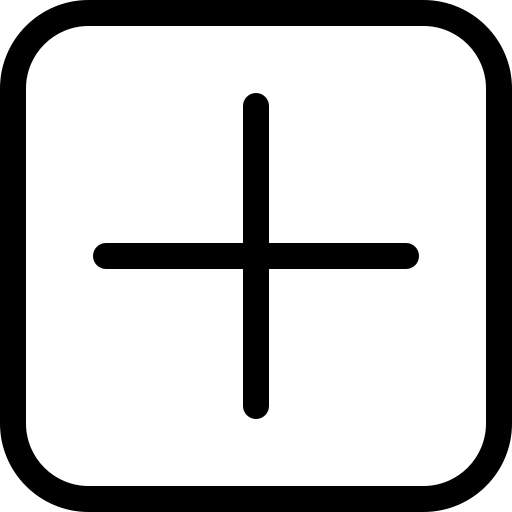
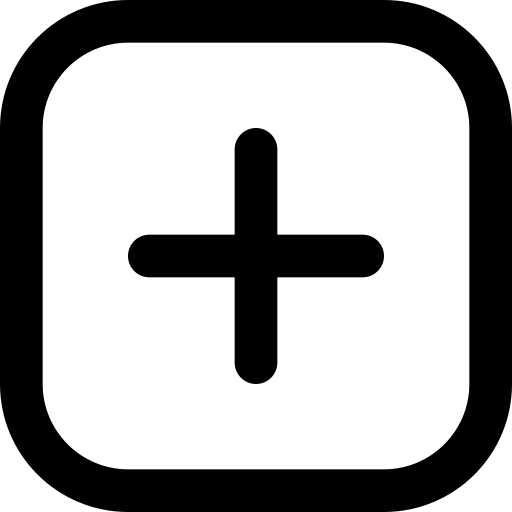
style changes, added edit & admin page, more

Changed region(s): [[0.0, 0.0, 1.0, 1.0], [0.1875, 0.1875, 0.8125, 0.8125]]

diff --git a/templates/admin.html b/templates/admin.html
@@ -5,36 +5,14 @@
 {% endblock %}
 
 {% block body %}
-<h2>Home</h2>
+<h2>Admin</h2>
 <div class="main-container">
-    <div class="upper-container">
-        <a href="{{ url_for('logout')}}">
-            <img src="/static/images/logout-icon.png" alt="Logout" class="action-button">
-        </a>
-        <div class="twoot-profile" style="display: flex; align-items: center; gap: 10px;">
-            {% if user == "Fuma" %}
-            <img class="twoot-pfp" src="/static/images/fuma-pfp.jpeg">
-            {% elif user == "Vyn" %}
-            <img class="twoot-pfp" src="/static/images/vyn-pfp.jpg">
-            {% elif user == "Mafu" %}
-            <img class="twoot-pfp" src="/static/images/mafu-pfp.jpg">
-            {% else %}
-            <img class="twoot-pfp" src="/static/images/default-pfp.jpg">
-            {% endif %}
-            <h4 class="twoot-user">{{user}}</h4>
-        </div>
-        {% if user == "fumafuamuf2101" %}
-        <a href="{{url_for('admin')}}">
-            <img src="/static/images/admin-icon.png" alt="Admin" class="action-button">
-        </a>
-        {% else %}
-        <a href="{{url_for('twoot')}}">
-            <img src="/static/images/post-icon.png" alt="Post" class="action-button">
-        </a>
-        {% endif %}
+    <div style="display: flex; justify-content: center;">
+        <img class="twoot-pfp" src="/static/images/pic-1.jpeg" style="width: auto; height: 180px;">
     </div>
+    <p style="text-align: center;">Edit and delete twoots</p>
     <div class="twoots-container">
-        {% if twoots|length < 1 %} <h2>No twoots ;w;</h2>
+        {% if twoots|length < 1 %} <h2>No twoots</h2>
             {% else %}
             {% for twoot in twoots %}
             <div class="twoot">
@@ -44,28 +22,22 @@
                         <img class="twoot-pfp" src="/static/images/fuma-pfp.jpeg">
                         {% elif twoot.user == "Vyn" %}
                         <img class="twoot-pfp" src="/static/images/vyn-pfp.jpg">
-                        {% elif twoot.user == "Mafu" %}
-                        <img class="twoot-pfp" src="/static/images/mafu-pfp.jpg">
                         {% else %}
                         <img class="twoot-pfp" src="/static/images/default-pfp.jpg">
                         {% endif %}
                         <h4 class="twoot-user">{{twoot.user}}</h4>
                     </div>
-                    {% if user == twoot.user %}
                     <div class="twoot-update" style="display: flex; align-items: center; gap: 10px;">
                         <a href="/edit/{{twoot.id}}" style="text-decoration: none; color: black;">Edit</a>
                         <a href="/delete/{{twoot.id}}" style="text-decoration: none; color: black;">Delete</a>
                     </div>
-                    {% else %}
-                    <p></p>
-                    {% endif %}
                 </div>
                 <p class="twoot-content">{{twoot.content}}</p>
                 <div class="twoot-foot">
                     {% if twoot.is_edited == True %}
-                    <p class="twoot-id">(edited)</p>
+                    <p class="twoot-id">Id: {{twoot.id}} (edited)</p>
                     {% else %}
-                    <p class="twoot-id"></p>
+                    <p class="twoot-id">Id: {{twoot.id}}</p>
                     {% endif %}
                     <p class="twoot-date-created">{{twoot.date_created.date()}}</p>
                 </div>

diff --git a/templates/login.html b/templates/login.html
@@ -5,13 +5,47 @@
 {% endblock %}
 
 {% block body %}
-<h2>Login (not an actual login)</h2>
-<p>Helo and welcome to twoo:3r !!! <br>
-    But first enter ur name plsss</p>
-<p>Suggestion: {{nm_suggestion}}</p>
-<form action="/login" method="POST">
-    <input type="text" name="username" placeholder="Enter name here" required>
-    <input type="submit" value="Enter now !!!">
-</form>
-<a href="https://youtu.be/dQw4w9WgXcQ?si=eTnQIvQ7HFBQSJL4" target="_blank"><button>I'm just gonna leave</button></a>
+<h2>Login</h2>
+<div class="main-container">
+    <div class="twoots-container">
+        <div class="twoot">
+            <div class="twoot-head">
+                <div class="twoot-profile" style="display: flex; align-items: center; gap: 10px;">
+                    <img class="twoot-pfp" src="/static/images/fuma-pfp.jpeg">
+                    <h4 class="twoot-user">Fuma</h4>
+                </div>
+                <a href="https://github.com/FumaGato" target="_blank">
+                    <img src="/static/images/github-logo.png" alt="My GitHub" class="github" style="margin-top: 12px;">
+                </a>
+            </div>
+            <p style="text-align: center;">Welcome to twoo:3r !!! <br>
+                Before continuing you need to login first. <br>
+                (Just type in your name bellow)</p>
+            <div class="twoot-foot">
+                <p></p>
+                <p></p>
+            </div>
+        </div>
+        <div class="twoot">
+            <div>
+                <p style="text-align: center;">v V V V v</p>
+            </div>
+            <form action="/login" method="POST">
+                <div style="display: flex; align-items: center; gap: 10px; justify-content: space-evenly;">
+                    <img src="/static/images/default-pfp.jpg" alt="pfp" style="width: 88.88px; height: 88.88px;">
+                    <div style="border: 3px solid black; border-radius: 10px; padding: 4px;">
+                        <input type="text" name="username" placeholder="Enter your name here" autocomplete="off"
+                            required style="font-size: 1.2rem; border-style: none;">
+                    </div>
+                    <input type="submit" value="Enter now !!" class="submit-button">
+                </div>
+            </form>
+            <div>
+                <p style="text-align: center;">Suggestion: {{nm_suggestion}}</p>
+            </div>
+        </div>
+    </div>
+</div>
+<a href="https://youtu.be/dQw4w9WgXcQ?si=eTnQIvQ7HFBQSJL4" target="_blank"><button class="submit-button">I'm just gonna
+        leave</button></a>
 {% endblock %}

diff --git a/templates/edit.html b/templates/edit.html
@@ -1,34 +1,35 @@
 {% extends 'base.html' %}
 
 {% block head %}
-<title>twoo:3r | Post</title>
+<title>twoo:3r | Edit</title>
 {% endblock %}
 
 {% block body %}
-<h2>Post</h2>
+<h2>Edit</h2>
 <div class="main-container">
     <div class="twoot">
         <div class="twoot-head">
             <div class="twoot-profile" style="display: flex; align-items: center; gap: 10px;">
-                {% if user == "Fuma" %}
+                {% if twoot.user == "Fuma" %}
                 <img class="twoot-pfp" src="/static/images/fuma-pfp.jpeg">
-                {% elif user == "Vyn" %}
+                {% elif twoot.user == "Vyn" %}
                 <img class="twoot-pfp" src="/static/images/vyn-pfp.jpg">
-                {% elif user == "Mafu" %}
+                {% elif twoot.user == "Mafu" %}
                 <img class="twoot-pfp" src="/static/images/mafu-pfp.jpg">
                 {% else %}
                 <img class="twoot-pfp" src="/static/images/default-pfp.jpg">
                 {% endif %}
-                <h4 class="twoot-user">{{user}}</h4>
+                <h4 class="twoot-user">{{twoot.user}}</h4>
             </div>
             <p></p>
         </div>
-        <form action="/twoot" method="POST">
-            <input type="text" name="content" maxlength="140" placeholder="Type something here" autocomplete="off"
-                required style="border-style: none; height: 60px; min-width: 585px;">
+        <form action="/edit/{{twoot.id}}" method="POST">
+            <input type="text" name="content" maxlength="140" placeholder="Type something here"
+                value="{{twoot.content}}" autocomplete="off" required
+                style="border-style: none; height: 60px; min-width: 585px;">
             <div class="twoot-foot">
                 <p></p>
-                <input type="submit" value="Post" class="submit-button">
+                <input type="submit" value="Done" class="submit-button">
             </div>
         </form>
     </div>

diff --git a/static/css/main.css b/static/css/main.css
@@ -47,7 +47,7 @@ body {
 }
 
 .main-container {
-    width: 40em;
+    width: 40rem;
 }
 
 .upper-container {
@@ -58,13 +58,13 @@ body {
     align-items: center;
 }
 
-.upper-container img {
-    width: 30px;
-    height: 30px;
+.action-button {
+    width: 35px;
+    height: 35px;
     transition: transform 0.2s ease;
 }
 
-.upper-container img:hover {
+.action-button:hover {
     transform: scale(1.1);
 }
 
@@ -75,7 +75,7 @@ body {
 
 .twoot {
     background-color: white;
-    border: 2px solid black;
+    border: 4px solid black;
     border-radius: 10px;
     padding-left: 20px;
     padding-right: 20px;
@@ -84,7 +84,15 @@ body {
 .twoot-head {
     display: flex;
     align-items: center;
-    gap: 10px;
+    justify-content: space-between;
+}
+
+.twoot-update a {
+    transition: transform 0.2s ease;
+}
+
+.twoot-update a:hover {
+    transform: scale(1.2);
 }
 
 .twoot-pfp {
@@ -96,4 +104,31 @@ body {
 .twoot-foot {
     display: flex;
     justify-content: space-between;
+}
+
+.submit-button {
+    font-family: "Atma", system-ui;
+    font-weight: 500;
+    font-size: 16px;
+    font-style: normal;
+    transition: transform 0.2s ease;
+    margin-bottom: 20px;
+    margin-top: 20px;
+    background-color: white;
+    border-style: none;
+    text-decoration: underline;
+}
+
+.submit-button:hover {
+    transform: scale(1.2);
+}
+
+.github {
+    width: 40px;
+    height: 40px;
+    transition: transform 0.2s ease;
+}
+
+.github:hover {
+    transform: scale(1.2);
 }

diff --git a/templates/base.html b/templates/base.html
@@ -20,7 +20,9 @@
     {% block body %}{% endblock %}
     <footer>
         <div>
-            <p>hehe</p>
+            <a href="/secret" style="color: black; text-decoration: none;">
+                <p>hehe</p>
+            </a>
         </div>
     </footer>
 </body>

diff --git a/templates/secret.html b/templates/secret.html
@@ -6,5 +6,5 @@
 
 {% block body %}
 <h1>Welcome to the secretroom</h1>
-<h3>mwehehehehe</h3>
+<p>There's nothing here lol... Yet...</p>
 {% endblock %}

diff --git a/app.py b/app.py
@@ -18,6 +18,7 @@ class Twoot(db.Model):
     id = db.Column(db.Integer, primary_key=True)
     user = db.Column(db.String(32), nullable=False)
     content = db.Column(db.String(140), nullable=False)
+    is_edited = db.Column(db.Boolean, default=False, nullable=False)
     date_created = db.Column(db.DateTime, default=datetime.utcnow)
 
 
@@ -46,12 +47,26 @@ def twoot():
         return render_template("twoot.html", user=session["user"])
 
 
-@app.route('/delete/<int:id>')
+@app.route("/edit/<int:id>", methods=["GET", "POST"])
+def edit(id):
+    twoot_to_edit = Twoot.query.get_or_404(id)
+    if request.method == "POST":
+        twoot_to_edit.content = request.form["content"]
+        twoot_to_edit.is_edited = True
+        db.session.commit()
+        return redirect(url_for("index"))
+    else:
+        return render_template("edit.html", twoot=twoot_to_edit)
+
+
+@app.route("/delete/<int:id>")
 def delete(id):
     twoot_to_del = Twoot.query.get_or_404(id)
     try:
         db.session.delete(twoot_to_del)
         db.session.commit()
+        if session["user"] == "fumafuamuf2101":
+            return redirect(url_for("admin"))
         return redirect(url_for("index"))
     except:
         return "Failed to delete"
@@ -64,8 +79,9 @@ def login():
         "xXx_HxNTER K!LLER_xXx",
         "Ladiesman217",
         "Masterbaiter69",
-        "Mr. Dudeman",
-        "Femboy_Slayer_666"
+        "Dudeman",
+        "Femboy_Slayer_666",
+        "Freddy Fazbear"
     ]
     suggestion_nm = random.choice(suggestion_nm_li)
     if request.method == "POST":
@@ -85,9 +101,18 @@ def logout():
     return redirect(url_for("login"))
 
 
-@app.route("/secretroom", methods=["GET"])
-def secretroom():
-    pass
+@app.route("/admin", methods=["GET", "POST"])
+def admin():
+    if "user" in session:
+        if session["user"] == "fumafuamuf2101":
+            twoots = Twoot.query.order_by(Twoot.date_created.desc()).all()
+            return render_template("admin.html", twoots=twoots)
+    return redirect(url_for("index"))
+
+
+@app.route("/secret", methods=["GET"])
+def secret():
+    return render_template("secret.html")
 
 
 if __name__ == "__main__":
